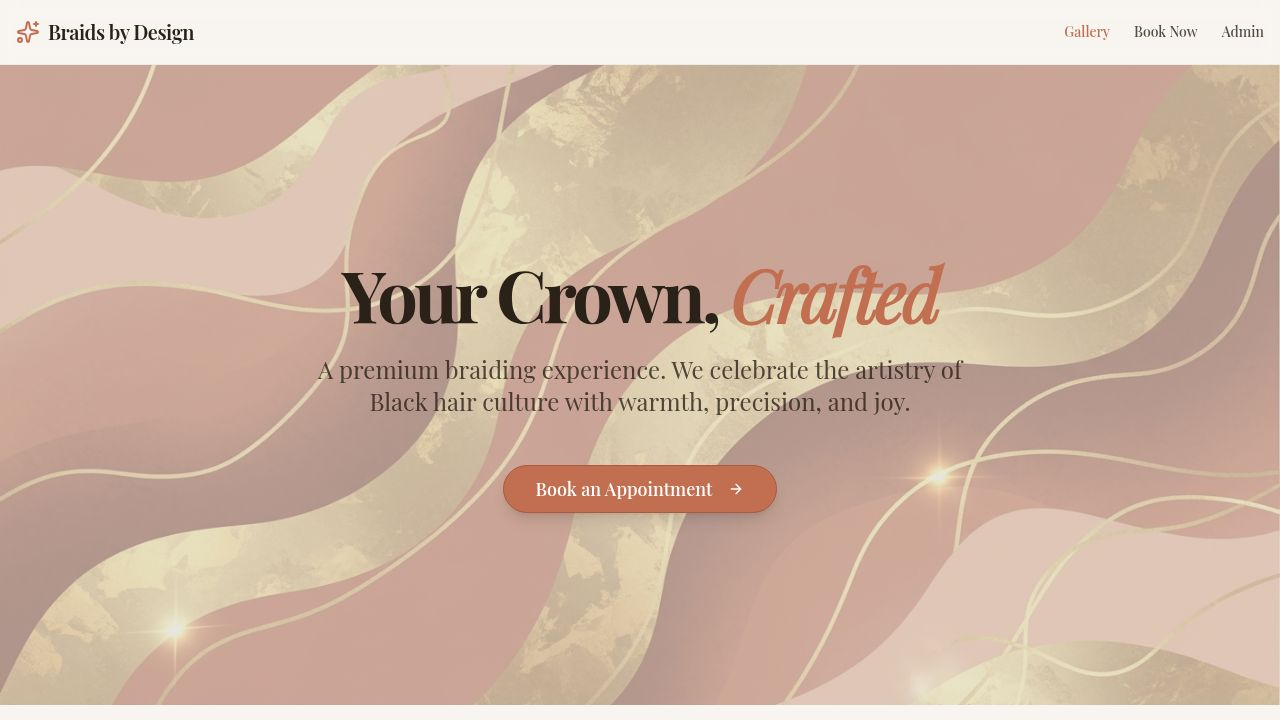
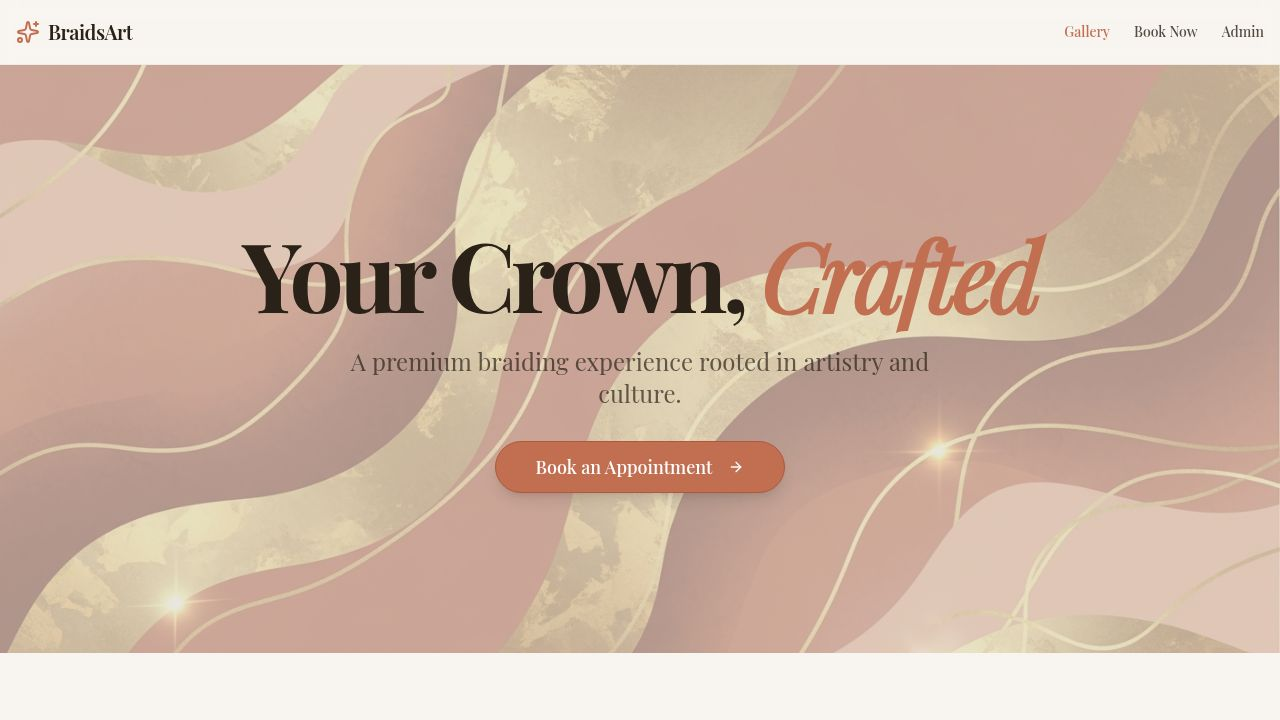
Update booking website to remove deposit system and customize branding
Removed deposit system and payment steps from booking flow. Updated branding to "BraidsArt" in navbar and title. Modified mailer, layout, and booking pages.

Replit-Commit-Author: Agent
Replit-Commit-Session-Id: 6273dc3e-4563-4c92-a043-a7fd5472a7e3
Replit-Commit-Checkpoint-Type: full_checkpoint
Replit-Commit-Event-Id: 6d9e2bb1-aafe-430b-b581-1dae3fd4190b
Replit-Commit-Screenshot-Url: https://storage.googleapis.com/screenshot-production-us-central1/f5149a0d-68bf-48cc-82c3-d8c29fddb8b9/6273dc3e-4563-4c92-a043-a7fd5472a7e3/jPXWUsO
Replit-Helium-Checkpoint-Created: true

diff --git a/artifacts/braids-booking/src/pages/book.tsx b/artifacts/braids-booking/src/pages/book.tsx
@@ -9,19 +9,18 @@ import { Label } from "@/components/ui/label";
 import { Textarea } from "@/components/ui/textarea";
 import { useToast } from "@/hooks/use-toast";
 import { format } from "date-fns";
-import { Clock, Calendar as CalendarIcon, CheckCircle2, ArrowLeft, Sparkles, CreditCard, Scissors } from "lucide-react";
+import { Clock, Calendar as CalendarIcon, CheckCircle2, ArrowLeft, Scissors } from "lucide-react";
 import { Skeleton } from "@/components/ui/skeleton";
 import { useQueryClient } from "@tanstack/react-query";
 
 const EXTENSION_PRICE = 400;
 const EXTENSION_HOURS = 1;
-const DEPOSIT_PERCENT = 0.2;
 
 export default function Book() {
   const searchParams = new URLSearchParams(window.location.search);
   const initialDesignId = searchParams.get("designId") ? parseInt(searchParams.get("designId")!) : null;
 
-  const [step, setStep] = useState<1 | 2 | 3 | 4>(1);
+  const [step, setStep] = useState<1 | 2 | 3>(1);
   const [selectedDesignId, setSelectedDesignId] = useState<number | null>(initialDesignId);
   const [withExtension, setWithExtension] = useState(false);
   const [selectedDate, setSelectedDate] = useState<Date | undefined>(undefined);
@@ -32,7 +31,7 @@ export default function Book() {
   const [customerEmail, setCustomerEmail] = useState("");
   const [notes, setNotes] = useState("");
   const [isSuccess, setIsSuccess] = useState(false);
-  const [paymentLoading, setPaymentLoading] = useState(false);
+  const [isSubmitting, setIsSubmitting] = useState(false);
 
   const { toast } = useToast();
   const queryClient = useQueryClient();
@@ -51,7 +50,6 @@ export default function Book() {
   const baseDuration = selectedDesign ? parseFloat(String(selectedDesign.durationHours)) : 0;
   const finalPrice = withExtension ? basePrice + EXTENSION_PRICE : basePrice;
   const finalDuration = withExtension ? baseDuration + EXTENSION_HOURS : baseDuration;
-  const depositAmount = Math.round(finalPrice * DEPOSIT_PERCENT);
 
   const handleDesignSelect = (id: number) => {
     setSelectedDesignId(id);
@@ -71,17 +69,11 @@ export default function Book() {
     window.scrollTo({ top: 0, behavior: "smooth" });
   };
 
-  const handleDetailsSubmit = (e: React.FormEvent) => {
+  const handleConfirm = (e: React.FormEvent) => {
     e.preventDefault();
-    if (!customerName) return;
-    setStep(4);
-    window.scrollTo({ top: 0, behavior: "smooth" });
-  };
-
-  const handlePayment = () => {
     if (!selectedDesignId || !selectedDate || !selectedSlot || !customerName) return;
-    setPaymentLoading(true);
 
+    setIsSubmitting(true);
     createBooking.mutate(
       {
         data: {
@@ -93,13 +85,11 @@ export default function Book() {
           customerEmail: customerEmail || undefined,
           notes: notes || undefined,
           withExtension,
-          depositPaid: true,
-          paymentStatus: "deposit_paid",
         },
       },
       {
         onSuccess: () => {
-          setPaymentLoading(false);
+          setIsSubmitting(false);
           setIsSuccess(true);
           queryClient.invalidateQueries({
             queryKey: getGetAvailableSlotsQueryKey({ date: format(selectedDate!, "yyyy-MM-dd"), designId: selectedDesignId! }),
@@ -107,7 +97,7 @@ export default function Book() {
           window.scrollTo({ top: 0, behavior: "smooth" });
         },
         onError: (error: any) => {
-          setPaymentLoading(false);
+          setIsSubmitting(false);
           toast({
             title: "Booking failed",
             description: error?.message || "There was an error booking your appointment.",
@@ -157,11 +147,11 @@ export default function Book() {
                   <span>{selectedSlot?.startTime} — {finalDuration} hrs</span>
                 </div>
                 <div className="flex items-center gap-3 text-foreground/80">
-                  <CreditCard className="h-5 w-5 text-primary shrink-0" />
-                  <span>Deposit paid: <strong>{depositAmount} EGP</strong> (20% of {finalPrice} EGP)</span>
+                  <Scissors className="h-5 w-5 text-primary shrink-0" />
+                  <span>Total price: <strong>{finalPrice.toLocaleString()} EGP</strong></span>
                 </div>
               </div>
-              <p className="text-sm text-muted-foreground">Remaining balance of <strong>{finalPrice - depositAmount} EGP</strong> is due on the day of your appointment.</p>
+              <p className="text-sm text-muted-foreground">See you at your appointment. We look forward to seeing you!</p>
               <Button className="mt-4 rounded-full" size="lg" onClick={resetFlow}>
                 Book Another Appointment
               </Button>
@@ -173,7 +163,7 @@ export default function Book() {
     );
   }
 
-  const stepLabels = ["Style", "Date & Time", "Details", "Payment"];
+  const stepLabels = ["Style", "Date & Time", "Confirm"];
 
   return (
     <div className="flex min-h-[100dvh] flex-col bg-muted/30">
@@ -184,8 +174,8 @@ export default function Book() {
           <p className="text-muted-foreground text-lg">Let's get you scheduled for your next beautiful style.</p>
         </div>
 
-        {/* 4-step progress bar */}
-        <div className="flex items-center justify-center mb-10 max-w-2xl mx-auto">
+        {/* 3-step progress bar */}
+        <div className="flex items-center justify-center mb-10 max-w-xl mx-auto">
           {stepLabels.map((label, i) => {
             const n = i + 1;
             const active = step >= n;
@@ -371,7 +361,7 @@ export default function Book() {
             </div>
           )}
 
-          {/* ─── STEP 3: Customer Details ─── */}
+          {/* ─── STEP 3: Confirm Booking ─── */}
           {step === 3 && (
             <div className="animate-in fade-in slide-in-from-bottom-4 duration-500 max-w-2xl mx-auto">
               <div className="flex items-center mb-6">
@@ -379,7 +369,7 @@ export default function Book() {
                   <ArrowLeft className="h-5 w-5" />
                 </Button>
                 <div>
-                  <h2 className="text-2xl font-serif font-semibold">Your Details</h2>
+                  <h2 className="text-2xl font-serif font-semibold">Confirm Booking</h2>
                   <p className="text-sm text-muted-foreground">Almost done — just a few details.</p>
                 </div>
               </div>
@@ -410,7 +400,7 @@ export default function Book() {
                 </div>
               </div>
 
-              <form onSubmit={handleDetailsSubmit} className="space-y-5">
+              <form onSubmit={handleConfirm} className="space-y-5">
                 <div className="space-y-2">
                   <Label htmlFor="name">Full Name <span className="text-destructive">*</span></Label>
                   <Input id="name" placeholder="Jane Doe" value={customerName} onChange={(e) => setCustomerName(e.target.value)} required className="h-12 bg-background" />
@@ -432,93 +422,14 @@ export default function Book() {
                   <Textarea id="notes" placeholder="Any specific requests or information we should know?" value={notes} onChange={(e) => setNotes(e.target.value)} className="min-h-[80px] bg-background" />
                 </div>
 
-                <Button type="submit" className="w-full h-13 text-base rounded-full mt-2" disabled={!customerName}>
-                  Continue to Payment
+                <Button
+                  type="submit"
+                  className="w-full h-13 text-base rounded-full mt-2"
+                  disabled={!customerName || isSubmitting}
+                >
+                  {isSubmitting ? "Booking..." : "Confirm Appointment"}
                 </Button>
               </form>
-            </div>
-          )}
-
-          {/* ─── STEP 4: Payment (Instapay Simulation) ─── */}
-          {step === 4 && (
-            <div className="animate-in fade-in slide-in-from-bottom-4 duration-500 max-w-xl mx-auto">
-              <div className="flex items-center mb-6">
-                <Button variant="ghost" size="icon" onClick={() => setStep(3)} className="mr-2 -ml-2">
-                  <ArrowLeft className="h-5 w-5" />
-                </Button>
-                <div>
-                  <h2 className="text-2xl font-serif font-semibold">Deposit Payment</h2>
-                  <p className="text-sm text-muted-foreground">Pay 20% to secure your slot</p>
-                </div>
-              </div>
-
-              {/* Booking summary compact */}
-              <div className="bg-muted/60 rounded-xl p-4 mb-6 text-sm space-y-1.5">
-                <div className="flex justify-between">
-                  <span className="text-muted-foreground">Style</span>
-                  <span className="font-medium">{selectedDesign?.name}{withExtension ? " + Extension" : ""}</span>
-                </div>
-                <div className="flex justify-between">
-                  <span className="text-muted-foreground">Date & Time</span>
-                  <span className="font-medium">{selectedDate && format(selectedDate, "MMM do")} at {selectedSlot?.startTime}</span>
-                </div>
-                <div className="flex justify-between">
-                  <span className="text-muted-foreground">Duration</span>
-                  <span className="font-medium">{finalDuration} hours</span>
-                </div>
-              </div>
-
-              {/* Payment breakdown */}
-              <div className="border border-border rounded-xl overflow-hidden mb-6">
-                <div className="bg-primary/5 px-5 py-4 border-b border-border">
-                  <div className="flex justify-between items-center">
-                    <span className="text-muted-foreground text-sm">Total appointment price</span>
-                    <span className="font-semibold text-foreground">{finalPrice.toLocaleString()} EGP</span>
-                  </div>
-                </div>
-                <div className="px-5 py-5 bg-card">
-                  <div className="flex justify-between items-center">
-                    <div>
-                      <p className="font-bold text-lg text-foreground">Deposit Required (20%)</p>
-                      <p className="text-muted-foreground text-sm mt-0.5">Remaining {(finalPrice - depositAmount).toLocaleString()} EGP due on the day</p>
-                    </div>
-                    <div className="text-right">
-                      <p className="font-bold text-3xl text-primary">{depositAmount.toLocaleString()}</p>
-                      <p className="text-muted-foreground text-sm">EGP</p>
-                    </div>
-                  </div>
-                </div>
-              </div>
-
-              {/* Instapay instructions */}
-              <div className="bg-amber-50 border border-amber-200 rounded-xl p-5 mb-6">
-                <div className="flex items-start gap-3">
-                  <CreditCard className="h-5 w-5 text-amber-600 mt-0.5 shrink-0" />
-                  <div>
-                    <p className="font-semibold text-amber-900 mb-1">Pay via Instapay</p>
-                    <p className="text-amber-800 text-sm leading-relaxed">
-                      Send <strong>{depositAmount.toLocaleString()} EGP</strong> to the Instapay number provided by your salon.<br />
-                      Once you have completed the transfer, click the button below to confirm your booking.
-                    </p>
-                  </div>
-                </div>
-              </div>
-
-              <Button
-                className="w-full h-14 text-lg rounded-full font-bold"
-                onClick={handlePayment}
-                disabled={paymentLoading || createBooking.isPending}
-              >
-                {paymentLoading || createBooking.isPending ? (
-                  <span className="flex items-center gap-2"><Scissors className="h-5 w-5 animate-spin" /> Confirming Booking...</span>
-                ) : (
-                  <span className="flex items-center gap-2"><CheckCircle2 className="h-5 w-5" /> I Have Paid — Confirm Booking</span>
-                )}
-              </Button>
-
-              <p className="text-center text-xs text-muted-foreground mt-4">
-                By confirming, you agree that you have completed the Instapay deposit of {depositAmount.toLocaleString()} EGP.
-              </p>
             </div>
           )}
 

diff --git a/artifacts/api-server/src/lib/mailer.ts b/artifacts/api-server/src/lib/mailer.ts
@@ -22,10 +22,13 @@ export interface BookingNotificationData {
   notes?: string | null;
   withExtension?: boolean;
   finalPrice?: number;
-  depositPaid?: boolean;
 }
 
 export async function sendBookingNotification(data: BookingNotificationData): Promise<void> {
+  // ──────────────────────────────────────────────────────────────
+  // ADMIN EMAIL: Set the NOTIFICATION_EMAIL secret in Replit Secrets
+  // (Tools → Secrets → NOTIFICATION_EMAIL = [email redacted])
+  // ──────────────────────────────────────────────────────────────
   const notificationEmail = process.env.NOTIFICATION_EMAIL;
   if (!notificationEmail) {
     logger.warn("NOTIFICATION_EMAIL not set, skipping booking notification");
@@ -33,12 +36,11 @@ export async function sendBookingNotification(data: BookingNotificationData): Pr
   }
 
   const subject = `New Booking: ${data.designName} on ${data.date}`;
-  const depositAmount = data.finalPrice ? (data.finalPrice * 0.2).toFixed(0) : null;
 
   const html = `
     <div style="font-family: Georgia, serif; max-width: 600px; margin: 0 auto; background: #faf7f4; padding: 32px; border-radius: 12px;">
       <h2 style="color: #8B4513; font-size: 24px; margin-bottom: 8px;">New Appointment Booked</h2>
-      <p style="color: #6b5a4e; margin-bottom: 24px;">A new booking has been made at Braids by Design.</p>
+      <p style="color: #6b5a4e; margin-bottom: 24px;">A new booking has been made at BraidsArt.</p>
 
       <table style="width: 100%; border-collapse: collapse; background: white; border-radius: 8px; overflow: hidden;">
         <tr style="background: #c17b4a; color: white;">
@@ -60,11 +62,6 @@ export async function sendBookingNotification(data: BookingNotificationData): Pr
         <tr>
           <td style="padding: 12px 16px; color: #8B4513; font-weight: bold; border-bottom: 1px solid #f0e8e0;">Total Price</td>
           <td style="padding: 12px 16px; border-bottom: 1px solid #f0e8e0;"><strong>${data.finalPrice} EGP</strong></td>
-        </tr>` : ""}
-        ${depositAmount ? `
-        <tr>
-          <td style="padding: 12px 16px; color: #8B4513; font-weight: bold; border-bottom: 1px solid #f0e8e0;">Deposit (20%)</td>
-          <td style="padding: 12px 16px; border-bottom: 1px solid #f0e8e0;">${depositAmount} EGP — ${data.depositPaid ? "✅ Paid" : "⏳ Pending"}</td>
         </tr>` : ""}
         <tr style="background: #fffaf7;">
           <td colspan="2" style="padding: 12px 16px; font-weight: bold; font-size: 14px; color: #8B4513; border-bottom: 1px solid #f0e8e0; border-top: 8px solid #f0e8e0;">Customer Info</td>
@@ -90,13 +87,13 @@ export async function sendBookingNotification(data: BookingNotificationData): Pr
         </tr>` : ""}
       </table>
 
-      <p style="margin-top: 24px; color: #9b8b7e; font-size: 13px;">Sent from Braids by Design booking system.</p>
+      <p style="margin-top: 24px; color: #9b8b7e; font-size: 13px;">Sent from BraidsArt booking system.</p>
     </div>
   `;
 
   try {
     await transporter.sendMail({
-      from: `"Braids by Design" <${process.env.SMTP_USER}>`,
+      from: `"BraidsArt" <${process.env.SMTP_USER}>`,
       to: notificationEmail,
       subject,
       html,

diff --git a/artifacts/braids-booking/src/pages/admin/bookings.tsx b/artifacts/braids-booking/src/pages/admin/bookings.tsx
@@ -93,7 +93,7 @@ export default function AdminBookings() {
                       <TableHead className="w-[180px]">Customer</TableHead>
                       <TableHead>Style</TableHead>
                       <TableHead>Date & Time</TableHead>
-                      <TableHead>Price & Payment</TableHead>
+                      <TableHead>Price</TableHead>
                       <TableHead>Contact</TableHead>
                       <TableHead className="text-right">Actions</TableHead>
                     </TableRow>
@@ -101,7 +101,6 @@ export default function AdminBookings() {
                   <TableBody>
                     {bookings.map((booking) => {
                       const isPast = new Date(`${booking.date}T${booking.endTime}`) < new Date();
-                      const depositAmount = Math.round(booking.finalPrice * 0.2);
                       return (
                         <TableRow key={booking.id} className={isPast ? "opacity-60 bg-muted/20" : ""}>
                           <TableCell>
@@ -135,16 +134,7 @@ export default function AdminBookings() {
                             </div>
                           </TableCell>
                           <TableCell>
-                            <div className="flex flex-col gap-1 text-sm">
-                              <span className="font-semibold">{Number(booking.finalPrice).toLocaleString()} EGP</span>
-                              <span className="text-xs text-muted-foreground">Deposit: {depositAmount.toLocaleString()} EGP</span>
-                              <Badge
-                                variant={booking.depositPaid ? "default" : "outline"}
-                                className={`text-xs w-fit ${booking.depositPaid ? "bg-green-100 text-green-800 border-green-200 hover:bg-green-100" : "text-muted-foreground"}`}
-                              >
-                                {booking.depositPaid ? "✓ Deposit Paid" : "Pending"}
-                              </Badge>
-                            </div>
+                            <span className="font-semibold text-sm">{Number(booking.finalPrice).toLocaleString()} EGP</span>
                           </TableCell>
                           <TableCell>
                             <div className="flex flex-col gap-1.5 text-sm">

diff --git a/artifacts/braids-booking/src/components/layout.tsx b/artifacts/braids-booking/src/components/layout.tsx
@@ -1,5 +1,5 @@
 import { Link, useLocation } from "wouter";
-import { Sparkles, Calendar, Settings, Home } from "lucide-react";
+import { Sparkles } from "lucide-react";
 
 export function Navbar() {
   const [location] = useLocation();
@@ -9,7 +9,7 @@ export function Navbar() {
       <div className="container flex h-16 items-center mx-auto px-4">
         <Link href="/" className="flex items-center gap-2 mr-6">
           <Sparkles className="h-6 w-6 text-primary" />
-          <span className="text-xl font-serif font-semibold text-foreground tracking-tight">Braids by Design</span>
+          <span className="text-xl font-serif font-semibold text-foreground tracking-tight">BraidsArt</span>
         </Link>
         <nav className="flex items-center gap-6 text-sm font-medium ml-auto">
           <Link 
@@ -43,7 +43,7 @@ export function Footer() {
         <div className="flex flex-col items-center gap-4 px-8 md:flex-row md:gap-2 md:px-0">
           <Sparkles className="h-5 w-5 text-primary" />
           <p className="text-sm leading-loose text-muted-foreground">
-            Built for beauty. Celebratory of Black hair culture.
+            © 2025 BraidsArt. All rights reserved.
           </p>
         </div>
       </div>

diff --git a/artifacts/braids-booking/index.html b/artifacts/braids-booking/index.html
@@ -3,7 +3,7 @@
   <head>
     <meta charset="UTF-8" />
     <meta name="viewport" content="width=device-width, initial-scale=1.0, maximum-scale=1" />
-    <title>Braids Center Booking</title>
+    <title>BraidsArt — Book Your Appointment</title>
     <link rel="icon" type="image/svg+xml" href="/favicon.svg" />
     <link rel="preconnect" href="https://fonts.googleapis.com">
     <link rel="preconnect" href="https://fonts.gstatic.com" crossorigin>